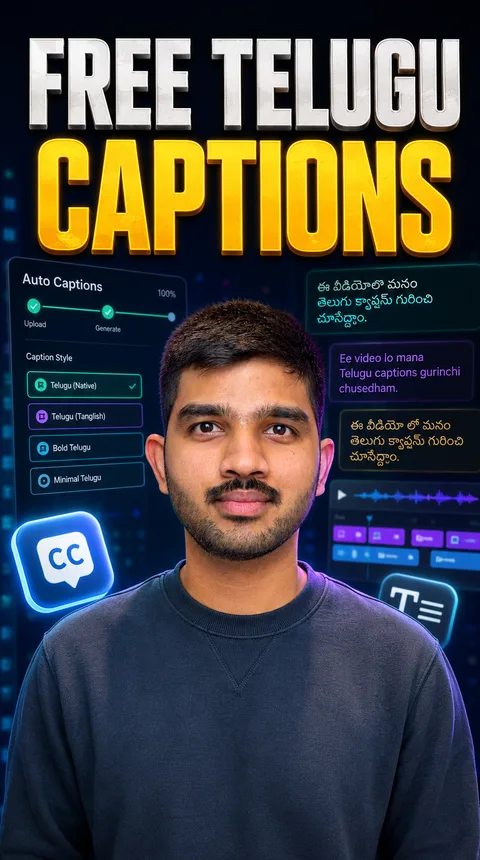
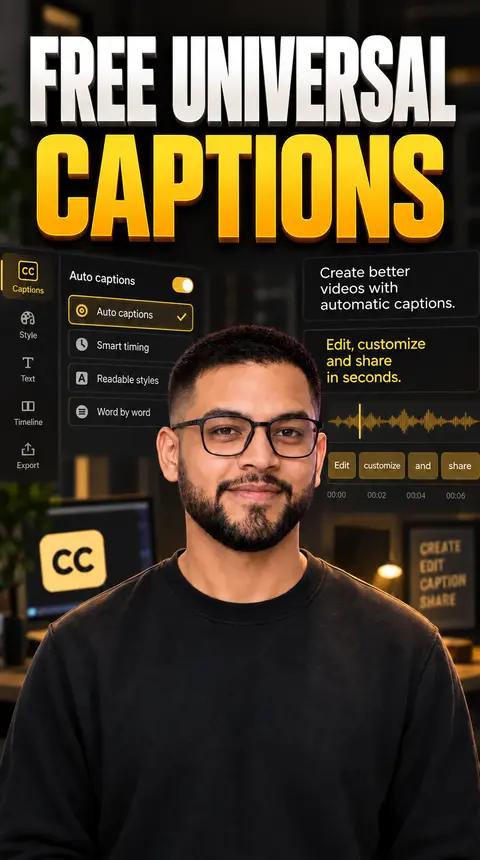
Refresh universal caption thumbnails

diff --git a/src/features/landing/components/landing-workflow-steps.tsx b/src/features/landing/components/landing-workflow-steps.tsx
@@ -169,41 +169,30 @@ export function LandingWorkflowSteps() {
       >
         <div className="max-w-[760px] mx-auto mb-8 text-center">
           <div className="inline-block text-[clamp(10px,0.45vw+8px,13px)] font-semibold tracking-[0.85px] uppercase text-amber mb-3.5 [text-shadow:0_0_18px_rgba(246,196,83,0.18)]">
-            Coming soon
+            Creator studio
           </div>
           <h2
             id="thumbStudioHeading"
             className="font-display text-[clamp(1.5rem,0.5rem+2vw,2.75rem)] font-bold text-cream mb-4 tracking-[-0.02em] leading-[1.55]"
           >
-            Your face, ready for every cover.
+            A thumbnail ready to use.
           </h2>
           <p className="text-[clamp(15px,2vw,17px)] text-body leading-[1.65] max-w-[58ch] mx-auto">
-            Personalized vertical thumbnails are being built next. Your supplied profile photo now previews the direction across every sample.
+            Vertical covers built around your video, your message, and your own photo.
           </p>
         </div>
-        <div className="relative group" aria-label="Personalized thumbnail preview">
-          <div className="overflow-hidden [mask-image:linear-gradient(90deg,transparent,#000_6%,#000_94%,transparent)] max-[899px]:overflow-x-auto max-[899px]:[mask-image:none]">
-            <div className="flex w-max gap-4 animate-[thumbMarquee_65s_linear_infinite] group-hover:[animation-play-state:paused] max-[899px]:animate-none max-[899px]:px-1">
-              {allThumbs.map((thumbSrc, i) => (
-                <div key={`thumb-${i}`} className="relative aspect-[9/16] w-[160px] shrink-0 overflow-hidden rounded-[14px] border border-[var(--hairline-strong)] bg-surface shadow-[0_12px_28px_rgba(0,0,0,0.35)] max-[480px]:w-[130px]">
-                  <Image
-                    className="h-full w-full object-cover object-center sepia-[.08]"
-                    src={thumbSrc}
-                    width={160}
-                    height={284}
-                    alt=""
-                  />
-                  <span className="absolute inset-x-2 bottom-2 rounded-full border border-white/15 bg-[#0c0b0ad9] px-2 py-1 text-center text-[9px] font-bold uppercase tracking-[.08em] text-cream">
-                    Cover preview
-                  </span>
-                </div>
-              ))}
-            </div>
-          </div>
-          <div className="pointer-events-none absolute inset-0 grid place-items-center">
-            <span className="rounded-full border border-amber/35 bg-[#0c0b0af2] px-5 py-2.5 text-sm font-bold text-amber shadow-[var(--gold-glow)]">
-              Thumbnail tools coming soon
-            </span>
+        <div className="overflow-hidden [mask-image:linear-gradient(90deg,transparent,#000_6%,#000_94%,transparent)] group max-[899px]:overflow-x-auto max-[899px]:[mask-image:none]" aria-label="Personalized thumbnail examples">
+          <div className="flex w-max gap-4 animate-[thumbMarquee_65s_linear_infinite] group-hover:[animation-play-state:paused] max-[899px]:animate-none max-[899px]:px-1">
+            {allThumbs.map((thumbSrc, i) => (
+              <Image
+                key={`thumb-${i}`}
+                className="block aspect-[9/16] w-[160px] shrink-0 rounded-[14px] border border-[var(--hairline-strong)] object-cover shadow-[0_12px_28px_rgba(0,0,0,0.35)] max-[480px]:w-[130px]"
+                src={thumbSrc}
+                width={160}
+                height={284}
+                alt=""
+              />
+            ))}
           </div>
         </div>
       </section>

diff --git a/src/features/landing/data/landing-content.ts b/src/features/landing/data/landing-content.ts
@@ -62,5 +62,5 @@ export const compactReviews: CompactReview[] = [
 
 export const thumbnailSamples: string[] = Array.from(
   { length: 9 },
-  () => "/media/kuldeep-profile.png",
+  (_, index) => `/media/thumbs/thumb-${index + 1}.webp`,
 );
